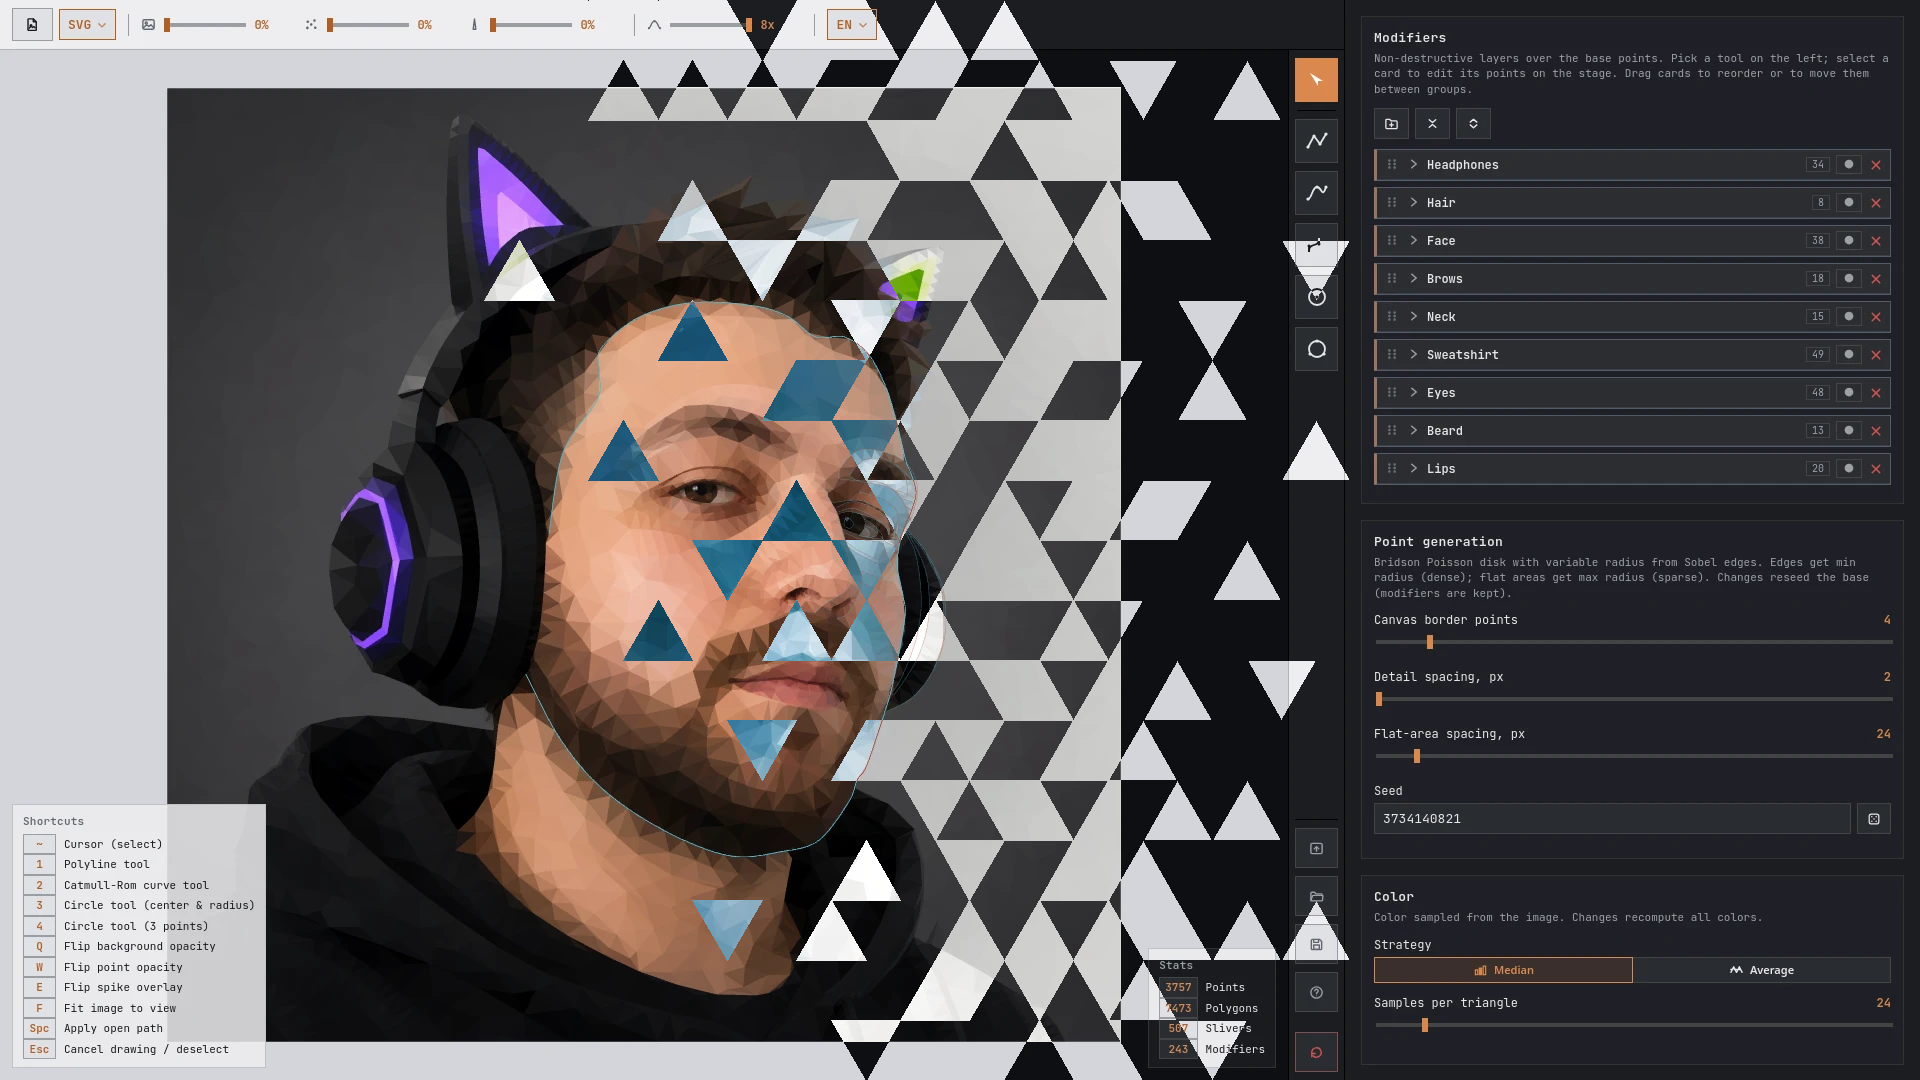
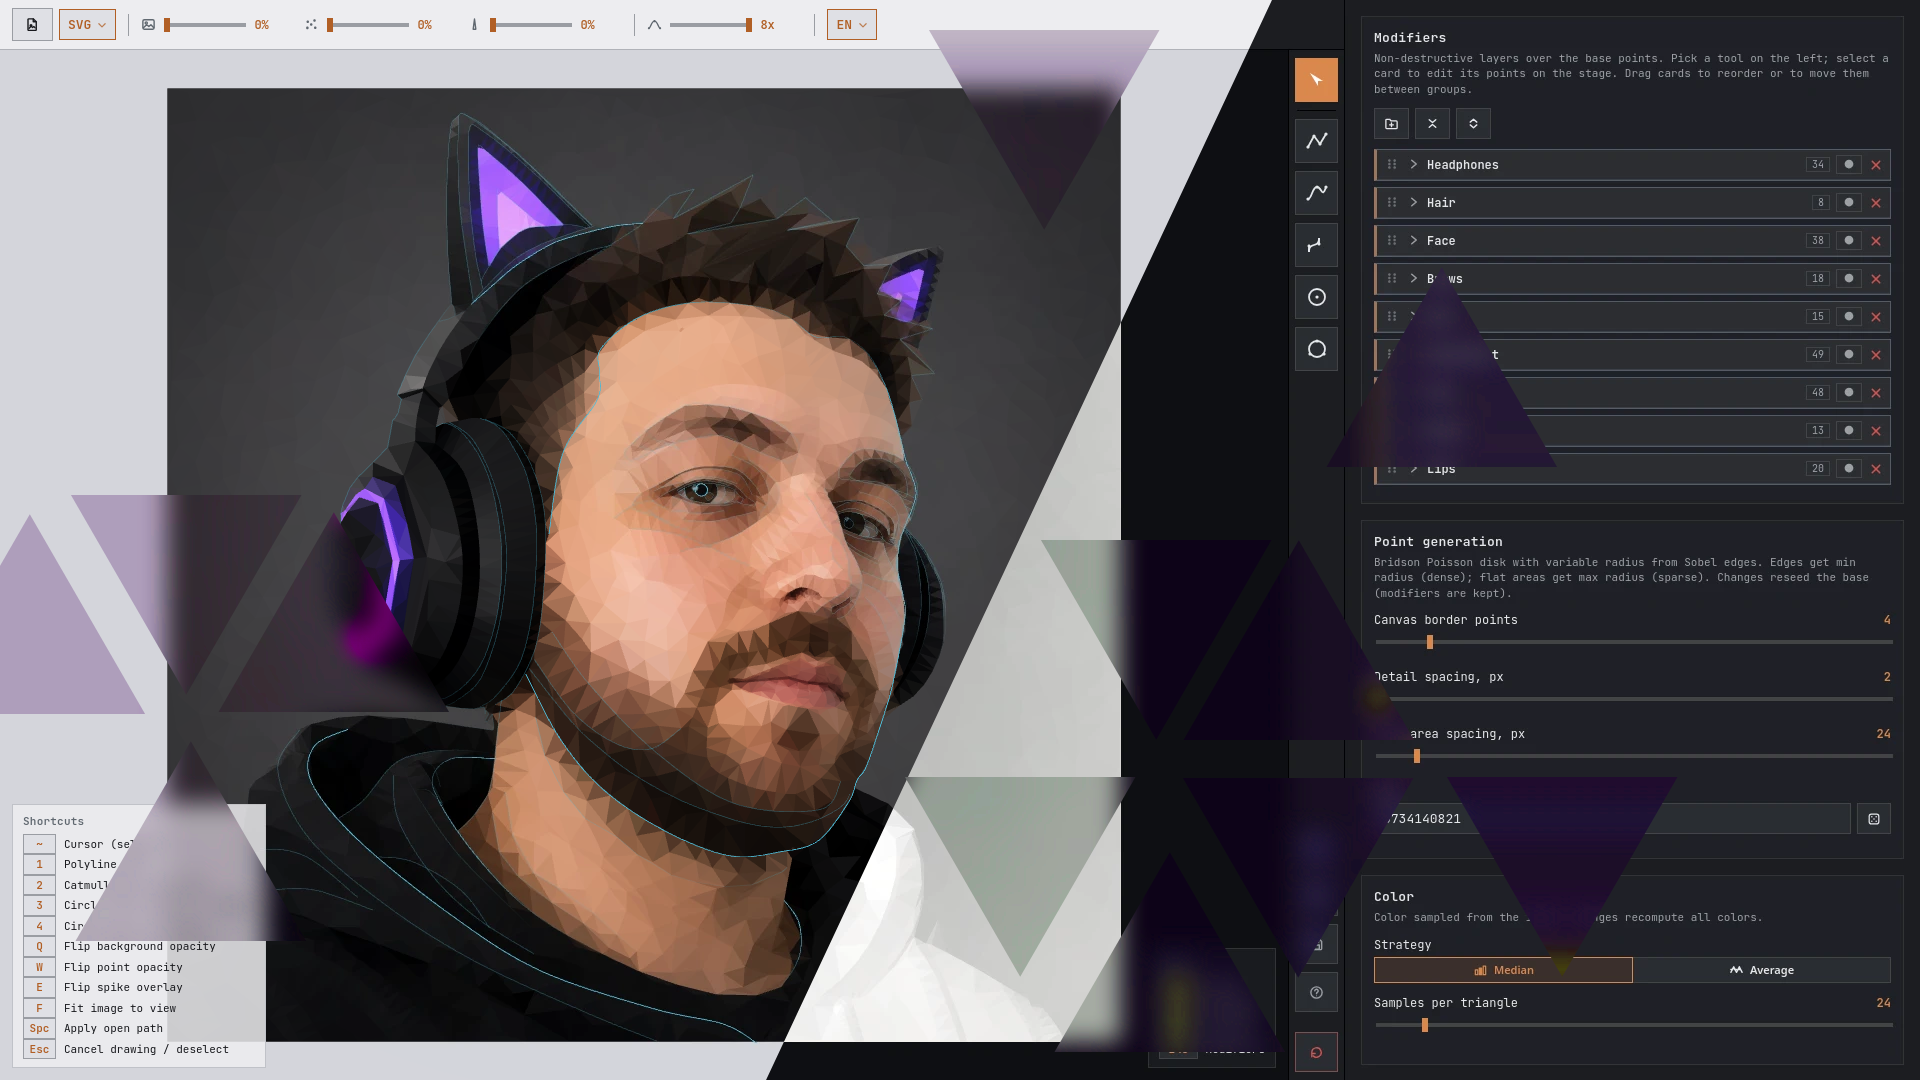
Update localization

diff --git a/src/ui/help.ts b/src/ui/help.ts
@@ -2,18 +2,16 @@ import { t, type TKey } from "../i18n/index.js";
 import type { ToolKind } from "../document/types.js";
 import { ICONS } from "./icons.js";
 import { toolIconSvg } from "./modifierPalette.js";
-import { attachTooltip } from "./tooltip.js";
 
 const STEP_KEYS = ["load", "points", "emphasize", "export"] as const;
 const ASIDE_KEYS = ["hotkeys", "stats", "performance"] as const;
-const EMPHASIS_TOOLS: ToolKind[] = ["polyline", "catmullrom", "circle", "circle3"];
+const EMPHASIS_TOOLS: ToolKind[] = ["polyline", "catmullrom", "bezier", "circle", "circle3"];
 
-/** A faithful copy of a real toolbar button: just the icon inside the button. */
-function demoButton(svg: string, label: string, tip: string): HTMLElement {
+/** A non-interactive copy of a real toolbar button: just the icon, no tooltip. */
+function demoButton(svg: string): HTMLElement {
   const btn = document.createElement("span");
   btn.className = "help-demo-btn";
   btn.innerHTML = svg;
-  attachTooltip(btn, label, tip);
   return btn;
 }
 
@@ -29,7 +27,7 @@ function demoChip(label: string): HTMLElement {
 function stepVisuals(key: (typeof STEP_KEYS)[number]): HTMLElement[] {
   switch (key) {
     case "load":
-      return [demoButton(ICONS.loadImage, t("topbar.loadImage.label"), t("topbar.loadImage.tip"))];
+      return [demoButton(ICONS.loadImage)];
     case "points":
       return [
         demoChip(t("panel.pointGen.minRadius")),
@@ -37,18 +35,9 @@ function stepVisuals(key: (typeof STEP_KEYS)[number]): HTMLElement[] {
         demoChip(t("panel.pointGen.perSide")),
       ];
     case "emphasize":
-      return EMPHASIS_TOOLS.map((kind) =>
-        demoButton(
-          toolIconSvg(kind),
-          t(`tools.${kind}.label` as TKey),
-          t(`tools.${kind}.tip` as TKey),
-        ),
-      );
+      return EMPHASIS_TOOLS.map((kind) => demoButton(toolIconSvg(kind)));
     case "export":
-      return [
-        demoButton(ICONS.saveProject, t("topbar.saveProject.label"), t("topbar.saveProject.tip")),
-        demoButton(ICONS.exportPng, t("topbar.export.label"), t("topbar.export.tip")),
-      ];
+      return [demoButton(ICONS.saveProject), demoButton(ICONS.exportPng)];
   }
 }
 

diff --git a/index.html b/index.html
@@ -622,7 +622,6 @@
         gap: 2px;
         max-height: 60vh;
         overflow-y: auto;
-        box-shadow: 0 8px 28px rgba(0, 0, 0, 0.35);
       }
       .dropdown-pop.grid {
         display: grid;
@@ -862,7 +861,6 @@
         justify-content: center;
         padding: 24px;
         background: color-mix(in srgb, var(--stage-bg) 70%, transparent);
-        backdrop-filter: blur(2px);
       }
       .help-dialog {
         position: relative;
@@ -872,7 +870,6 @@
         background: var(--panel-bg);
         color: var(--panel-fg);
         border: 1px solid var(--border-hard);
-        box-shadow: 0 12px 40px rgba(0, 0, 0, 0.45);
         padding: 24px 28px 26px;
       }
       .help-close {
